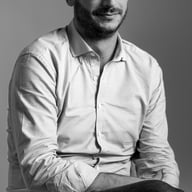
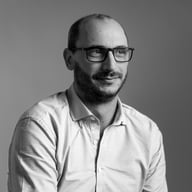
Photos : crop position 'top' au lieu de 'attention'
Évite de couper les têtes sur les portraits debout. Mapping CROP_POSITION
override-able par personne si besoin d'ajustements fins.

diff --git a/build.js b/build.js
@@ -73,13 +73,22 @@ function ensureDirs() {
   [DOCS_DIR, ASSETS_DIR, SIG_DIR].forEach(d => fs.mkdirSync(d, { recursive: true }));
 }
 
+// Crop par personne : 'top' garde le haut (visages des portraits debout).
+// Override possible si une photo a un cadrage particulier.
+const CROP_POSITION = {
+  yann: 'top', jacques: 'top', clement: 'top', florian: 'top',
+  anne: 'top', veronique: 'top',
+  sonia: 'top', eulalie: 'top', sidonie: 'top',
+  alexandre: 'top'
+};
+
 async function buildPhotos() {
   for (const [id, num] of Object.entries(PHOTO_MAP)) {
     const src = path.join(SRC_DIR, `2025.12 Noe-l Karre-prod&Co-${num}.jpg`);
     const dst = path.join(ASSETS_DIR, `photo-${id}.jpg`);
     await sharp(src)
       .rotate()
-      .resize(192, 192, { fit: 'cover', position: 'attention' })
+      .resize(192, 192, { fit: 'cover', position: CROP_POSITION[id] || 'top' })
       .grayscale()
       .jpeg({ quality: 85, mozjpeg: true })
       .toFile(dst);